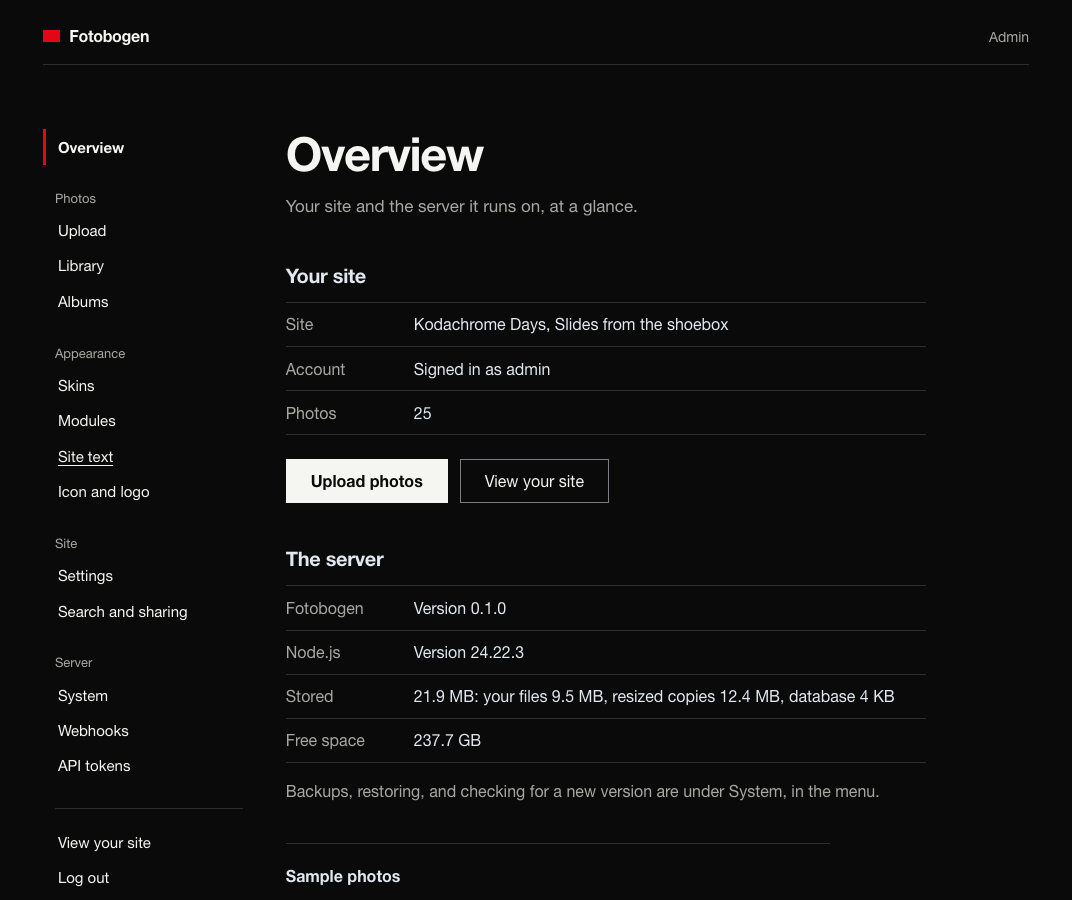
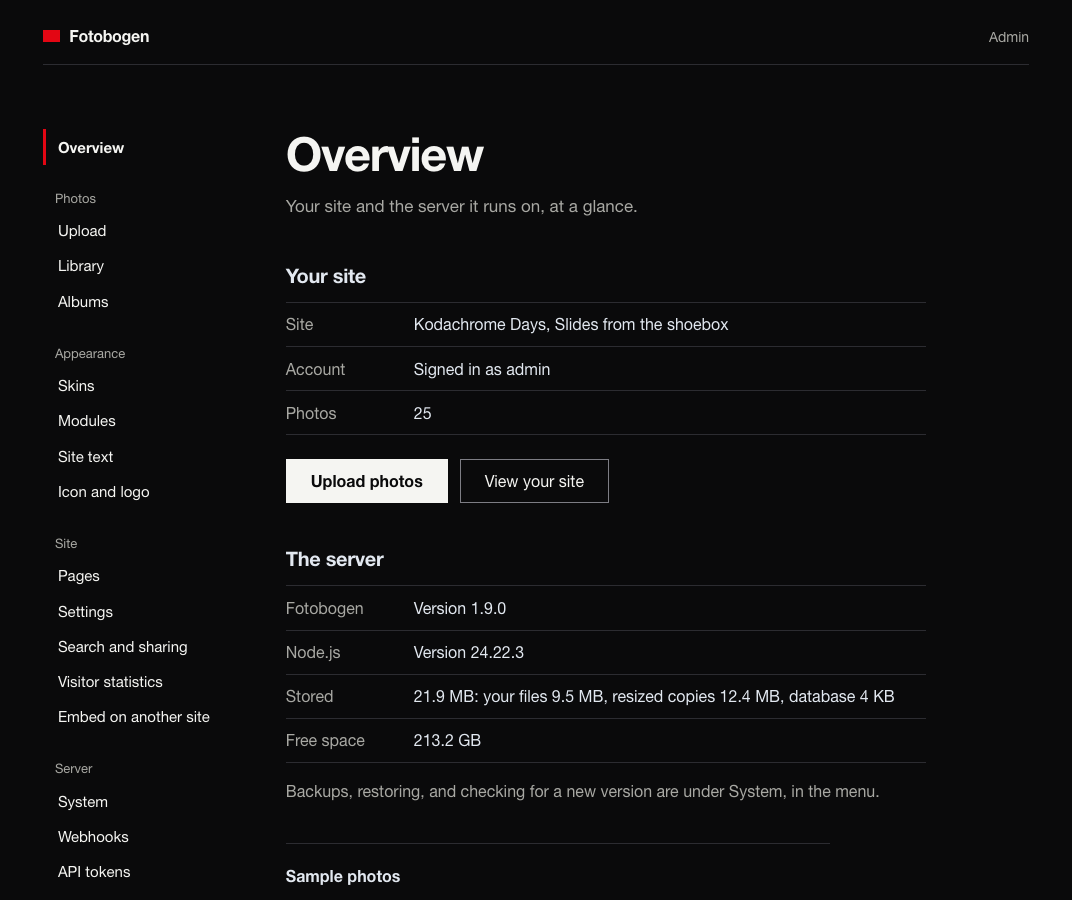
New screenshots of the admin, the grid and a photo page; the skin and module guides' outlines match the markup
The README's and the front page's screenshots of the admin's Overview, the
public grid, and a photo page were from early versions. They are retaken
from version 1.9.0, with their descriptions.

The outlines of the public markup in both skin guides now show the page
wrapper, the Search link, the light and dark switch as it is written, the
footer's note, the album page's slideshow link, and all six slideshow
controls. The guides also say what a linked or oversized skin file does, and
how the watermark draws its text.

diff --git a/site/docs/writing-a-skin/index.html b/site/docs/writing-a-skin/index.html
@@ -219,13 +219,15 @@ cp -R skins/swiss data/skins/harbour</code></pre>
 <h2 id="markup">The HTML you are styling</h2>
 <p>These class names are stable; a skin may rely on them.</p>
 <pre tabindex="0"><code>&lt;html class="fb-public" data-fb-mode="light"&gt;        &lt;!-- or "dark", or "auto" --&gt;
+&lt;div class="fb-site"&gt;                                  &lt;!-- around everything on the page --&gt;
   &lt;a class="fb-skip"&gt;Skip to content&lt;/a&gt;
   &lt;header class="fb-site-header"&gt;
     &lt;p class="fb-site-title"&gt;&lt;a&gt;Site title&lt;/a&gt;&lt;/p&gt;
     &lt;p class="fb-site-tagline"&gt;Tagline&lt;/p&gt;
     &lt;nav class="fb-nav"&gt;
-      &lt;a&gt;Photos&lt;/a&gt;&lt;a&gt;Albums&lt;/a&gt;&lt;a&gt;Slideshow&lt;/a&gt;
-      &lt;button class="fb-mode"&gt;Dark mode&lt;/button&gt;      &lt;!-- the light and dark switch --&gt;
+      &lt;a&gt;Photos&lt;/a&gt;&lt;a&gt;Albums&lt;/a&gt;&lt;a&gt;Slideshow&lt;/a&gt;&lt;a&gt;Search&lt;/a&gt;
+      &lt;!-- The light and dark switch. It holds both wordings; the stylesheet shows the one for the mode in use. --&gt;
+      &lt;button class="fb-mode"&gt;&lt;span class="fb-mode__to-dark"&gt;Dark mode&lt;/span&gt;&lt;span class="fb-mode__to-light"&gt;Light mode&lt;/span&gt;&lt;/button&gt;
     &lt;/nav&gt;
   &lt;/header&gt;
   &lt;main class="fb-main"&gt;
@@ -289,6 +291,7 @@ cp -R skins/swiss data/skins/harbour</code></pre>
     &lt;p class="fb-site-footer__note"&gt;The owner's own line, if they wrote one&lt;/p&gt;
     &lt;a&gt;RSS feed&lt;/a&gt;
   &lt;/footer&gt;
+&lt;/div&gt;
 &lt;/html&gt;</code></pre>
 <p>The words shown here are the defaults; an owner can change any of them, so never rely on a piece of text or its length. A site title may be three letters or forty.</p>
 <p>Newer parts of the site are not in the outline above. A skin should also style them:</p>
@@ -322,11 +325,16 @@ cp -R skins/swiss data/skins/harbour</code></pre>
   &lt;/div&gt;
   &lt;nav class="fb-slideshow__controls"&gt;
     &lt;button class="fb-slideshow__control"&gt;Previous&lt;/button&gt;
+    &lt;button class="fb-slideshow__control" aria-pressed="false"&gt;Pause&lt;/button&gt;   &lt;!-- or Play --&gt;
+    &lt;button class="fb-slideshow__control"&gt;Next&lt;/button&gt;
     &lt;span class="fb-slideshow__count"&gt;3 / 25&lt;/span&gt;
+    &lt;button class="fb-slideshow__control"&gt;Full screen&lt;/button&gt;
     &lt;a class="fb-slideshow__control"&gt;Close&lt;/a&gt;
   &lt;/nav&gt;
+  &lt;!-- With nothing to show, the page holds only this: --&gt;
+  &lt;p class="fb-slideshow__empty"&gt;There are no photos to show. &lt;a&gt;Go back&lt;/a&gt;&lt;/p&gt;
 &lt;/main&gt;</code></pre>
-<p>Two images are stacked; the one with <code>--front</code> is showing, and the skin makes the change between them. Swiss fades <code>opacity</code> over a second, and not at all when the visitor's device asks for reduced motion. Unless you want a different slideshow, leave Swiss's rules for it as they are.</p>
+<p>The words in the outlines are the defaults. Two images are stacked; the one with <code>--front</code> is showing, and the skin makes the change between them. Swiss fades <code>opacity</code> over a second, and not at all when the visitor's device asks for reduced motion. Unless you want a different slideshow, leave Swiss's rules for it as they are.</p>
 
 <h2 id="grid">The grid</h2>
 <p>Both layouts are CSS grid with no JavaScript, so photos are read in the order they appear. If you copied Swiss you already have both; this is what its rules do, in case you change them.</p>
@@ -403,15 +411,15 @@ cp -R skins/swiss data/skins/harbour</code></pre>
   <tbody>
     <tr><td>The folder is called "x" but skin.json names the skin "y". They must match.</td><td>Rename the folder, or change <code>name</code>.</td></tr>
     <tr><td>skin.json must be a JSON object. / Option "x" must be an object.</td><td>Something that should be written in braces, <code>{ … }</code>, is a list, a string, or a number.</td></tr>
-    <tr><td>skin.json needs a "name" of lowercase letters, digits, and hyphens.</td><td>No capitals, spaces, or underscores; start with a letter.</td></tr>
+    <tr><td>skin.json needs a "name" of lowercase letters, digits, and hyphens.</td><td>No capitals, spaces, or underscores; start with a letter; 40 characters at most.</td></tr>
     <tr><td>skin.json needs a "version". / a "label".</td><td>Add the missing field.</td></tr>
-    <tr><td>skin.css is missing or empty.</td><td>The stylesheet must be in the same folder, with that name.</td></tr>
+    <tr><td>skin.css is missing or empty.</td><td>The stylesheet must be in the same folder, with that name. A file that is a link to somewhere else, or larger than 2 MB, is read as empty: put the file itself in the folder, and keep it under that size. The same goes for <code>skin.json</code>.</td></tr>
     <tr><td>skin.json needs "modes" with a "light" and a "dark" set of colours. Every skin can be viewed in both.</td><td>Add <code>modes</code> with both. (A skin written before modes existed used <code>tokens</code>; move those colours under <code>modes</code>.)</td></tr>
     <tr><td>The light and dark modes must name the same colours.</td><td>A name is in one and not the other.</td></tr>
     <tr><td>Colour "x" (light) must be written like "#0a0a0b".</td><td>Six-digit hex only.</td></tr>
     <tr><td>Colour names are lowercase letters, digits, and hyphens.</td><td>Rename the colour.</td></tr>
     <tr><td>Option names are lowercase letters, digits, and hyphens.</td><td>Rename the option.</td></tr>
-    <tr><td>Colour option "x" needs a default like "#e30613", or one for each mode: { "light": …, "dark": … }.</td><td>Give a hex colour, or one for each mode.</td></tr>
+    <tr><td>Colour option "x" needs a default like "#e30613", or one for each mode: { "light": "#e30613", "dark": "#ff5a4f" }.</td><td>Give a hex colour, or one for each mode.</td></tr>
     <tr><td>Select option "x" needs a list of text options and a default that is one of them.</td><td>The default must appear in <code>options</code>.</td></tr>
     <tr><td>Select option "x": "…" cannot be used as a CSS value.</td><td>A value in <code>values</code> has a character that is not allowed, such as <code>;</code> or <code>{</code>.</td></tr>
     <tr><td>Range option "x" needs numeric min, max, and default, with min below max.</td><td>All three as numbers, not text.</td></tr>

diff --git a/docs/site/pages/writing-a-skin.html b/docs/site/pages/writing-a-skin.html
@@ -145,13 +145,15 @@ cp -R skins/swiss data/skins/harbour</code></pre>
 <h2 id="markup">The HTML you are styling</h2>
 <p>These class names are stable; a skin may rely on them.</p>
 <pre><code>&lt;html class="fb-public" data-fb-mode="light"&gt;        &lt;!-- or "dark", or "auto" --&gt;
+&lt;div class="fb-site"&gt;                                  &lt;!-- around everything on the page --&gt;
   &lt;a class="fb-skip"&gt;Skip to content&lt;/a&gt;
   &lt;header class="fb-site-header"&gt;
     &lt;p class="fb-site-title"&gt;&lt;a&gt;Site title&lt;/a&gt;&lt;/p&gt;
     &lt;p class="fb-site-tagline"&gt;Tagline&lt;/p&gt;
     &lt;nav class="fb-nav"&gt;
-      &lt;a&gt;Photos&lt;/a&gt;&lt;a&gt;Albums&lt;/a&gt;&lt;a&gt;Slideshow&lt;/a&gt;
-      &lt;button class="fb-mode"&gt;Dark mode&lt;/button&gt;      &lt;!-- the light and dark switch --&gt;
+      &lt;a&gt;Photos&lt;/a&gt;&lt;a&gt;Albums&lt;/a&gt;&lt;a&gt;Slideshow&lt;/a&gt;&lt;a&gt;Search&lt;/a&gt;
+      &lt;!-- The light and dark switch. It holds both wordings; the stylesheet shows the one for the mode in use. --&gt;
+      &lt;button class="fb-mode"&gt;&lt;span class="fb-mode__to-dark"&gt;Dark mode&lt;/span&gt;&lt;span class="fb-mode__to-light"&gt;Light mode&lt;/span&gt;&lt;/button&gt;
     &lt;/nav&gt;
   &lt;/header&gt;
   &lt;main class="fb-main"&gt;
@@ -215,6 +217,7 @@ cp -R skins/swiss data/skins/harbour</code></pre>
     &lt;p class="fb-site-footer__note"&gt;The owner's own line, if they wrote one&lt;/p&gt;
     &lt;a&gt;RSS feed&lt;/a&gt;
   &lt;/footer&gt;
+&lt;/div&gt;
 &lt;/html&gt;</code></pre>
 <p>The words shown here are the defaults; an owner can change any of them, so never rely on a piece of text or its length. A site title may be three letters or forty.</p>
 <p>Newer parts of the site are not in the outline above. A skin should also style them:</p>
@@ -248,11 +251,16 @@ cp -R skins/swiss data/skins/harbour</code></pre>
   &lt;/div&gt;
   &lt;nav class="fb-slideshow__controls"&gt;
     &lt;button class="fb-slideshow__control"&gt;Previous&lt;/button&gt;
+    &lt;button class="fb-slideshow__control" aria-pressed="false"&gt;Pause&lt;/button&gt;   &lt;!-- or Play --&gt;
+    &lt;button class="fb-slideshow__control"&gt;Next&lt;/button&gt;
     &lt;span class="fb-slideshow__count"&gt;3 / 25&lt;/span&gt;
+    &lt;button class="fb-slideshow__control"&gt;Full screen&lt;/button&gt;
     &lt;a class="fb-slideshow__control"&gt;Close&lt;/a&gt;
   &lt;/nav&gt;
+  &lt;!-- With nothing to show, the page holds only this: --&gt;
+  &lt;p class="fb-slideshow__empty"&gt;There are no photos to show. &lt;a&gt;Go back&lt;/a&gt;&lt;/p&gt;
 &lt;/main&gt;</code></pre>
-<p>Two images are stacked; the one with <code>--front</code> is showing, and the skin makes the change between them. Swiss fades <code>opacity</code> over a second, and not at all when the visitor's device asks for reduced motion. Unless you want a different slideshow, leave Swiss's rules for it as they are.</p>
+<p>The words in the outlines are the defaults. Two images are stacked; the one with <code>--front</code> is showing, and the skin makes the change between them. Swiss fades <code>opacity</code> over a second, and not at all when the visitor's device asks for reduced motion. Unless you want a different slideshow, leave Swiss's rules for it as they are.</p>
 
 <h2 id="grid">The grid</h2>
 <p>Both layouts are CSS grid with no JavaScript, so photos are read in the order they appear. If you copied Swiss you already have both; this is what its rules do, in case you change them.</p>
@@ -329,15 +337,15 @@ cp -R skins/swiss data/skins/harbour</code></pre>
   <tbody>
     <tr><td>The folder is called "x" but skin.json names the skin "y". They must match.</td><td>Rename the folder, or change <code>name</code>.</td></tr>
     <tr><td>skin.json must be a JSON object. / Option "x" must be an object.</td><td>Something that should be written in braces, <code>{ … }</code>, is a list, a string, or a number.</td></tr>
-    <tr><td>skin.json needs a "name" of lowercase letters, digits, and hyphens.</td><td>No capitals, spaces, or underscores; start with a letter.</td></tr>
+    <tr><td>skin.json needs a "name" of lowercase letters, digits, and hyphens.</td><td>No capitals, spaces, or underscores; start with a letter; 40 characters at most.</td></tr>
     <tr><td>skin.json needs a "version". / a "label".</td><td>Add the missing field.</td></tr>
-    <tr><td>skin.css is missing or empty.</td><td>The stylesheet must be in the same folder, with that name.</td></tr>
+    <tr><td>skin.css is missing or empty.</td><td>The stylesheet must be in the same folder, with that name. A file that is a link to somewhere else, or larger than 2 MB, is read as empty: put the file itself in the folder, and keep it under that size. The same goes for <code>skin.json</code>.</td></tr>
     <tr><td>skin.json needs "modes" with a "light" and a "dark" set of colours. Every skin can be viewed in both.</td><td>Add <code>modes</code> with both. (A skin written before modes existed used <code>tokens</code>; move those colours under <code>modes</code>.)</td></tr>
     <tr><td>The light and dark modes must name the same colours.</td><td>A name is in one and not the other.</td></tr>
     <tr><td>Colour "x" (light) must be written like "#0a0a0b".</td><td>Six-digit hex only.</td></tr>
     <tr><td>Colour names are lowercase letters, digits, and hyphens.</td><td>Rename the colour.</td></tr>
     <tr><td>Option names are lowercase letters, digits, and hyphens.</td><td>Rename the option.</td></tr>
-    <tr><td>Colour option "x" needs a default like "#e30613", or one for each mode: { "light": …, "dark": … }.</td><td>Give a hex colour, or one for each mode.</td></tr>
+    <tr><td>Colour option "x" needs a default like "#e30613", or one for each mode: { "light": "#e30613", "dark": "#ff5a4f" }.</td><td>Give a hex colour, or one for each mode.</td></tr>
     <tr><td>Select option "x" needs a list of text options and a default that is one of them.</td><td>The default must appear in <code>options</code>.</td></tr>
     <tr><td>Select option "x": "…" cannot be used as a CSS value.</td><td>A value in <code>values</code> has a character that is not allowed, such as <code>;</code> or <code>{</code>.</td></tr>
     <tr><td>Range option "x" needs numeric min, max, and default, with min below max.</td><td>All three as numbers, not text.</td></tr>

diff --git a/site/index.html b/site/index.html
@@ -239,11 +239,11 @@ footer .wrap{border-top:1px solid var(--rule);padding-top:20px;padding-bottom:28
         </li>
         <li>
           <div class="cap"><span class="num" aria-hidden="true">07</span><h3>Your photographs, published</h3><p>Visitors see a grid that keeps each photo its own shape, or equal squares if you prefer. It is laid out without scripts, loads a blurred placeholder first, and never jumps as pictures arrive.</p><p class="where">The public site</p></div>
-          <figure><img src="screens/gallery.jpg" width="1072" height="760" loading="lazy" decoding="async" alt="A dark page titled Kodachrome Days with a masonry grid of photographs of different shapes: a game controller, a pine forest, a lighthouse, a whitewashed town, a coffee mug."></figure>
+          <figure><img src="screens/gallery.jpg" width="1072" height="760" loading="lazy" decoding="async" alt="A dark page titled Kodachrome Days. Under the menu, a row of album names to choose from: All, Desk and table, Coast and mountains. Below it, a masonry grid of photographs of different shapes: a coffee mug, a lake, a waterfall, a whitewashed town, a desk."></figure>
         </li>
         <li>
           <div class="cap"><span class="num" aria-hidden="true">08</span><h3>One photo, with its words</h3><p>Each photo has its own page and address, with its title, description, date, and camera details, and links to the next and the previous. It can also open over the grid.</p><p class="where">A photo page</p></div>
-          <figure><img src="screens/photo.jpg" width="1072" height="760" loading="lazy" decoding="async" alt="A photo page: a man in a suit crossing an empty road, with the title Crossing and a description beside it, and Previous and Next links."></figure>
+          <figure><img src="screens/photo.jpg" width="1072" height="760" loading="lazy" decoding="async" alt="A photo page: a whitewashed town on a hillside, with the title Whitewashed town, a description, its size in pixels, and Previous and Next links beside it."></figure>
         </li>
         <li>
           <div class="cap"><span class="num" aria-hidden="true">09</span><h3>Film looks and frames</h3><p>Modules change how a photo looks without touching the file you uploaded. Under each photo is a strip of previews: black-and-white, a colour slide, a contact-print frame with made-up film markings. Pick one, adjust it, save. Switching it off puts the photo back.</p><p class="where">Editing a photo</p></div>

diff --git a/site/docs/modules/index.html b/site/docs/modules/index.html
@@ -105,6 +105,7 @@
   <li><strong>Frame thickness.</strong></li>
   <li><strong>Ragged edge</strong>, from a straight cut to a rough one, like the edge of a filed-out negative carrier.</li>
   <li><strong>Film edge markings</strong>, on or off: the stock name and frame numbers printed along the border. The names are made up (FOTOBOGEN 400, NACHTPAN 100, SILBERKORN 5063, BOGEN-X 320).</li>
+  <li><strong>Film stock (made up)</strong>: which of those names is printed.</li>
   <li><strong>Sprocket holes</strong>, on or off, as on 35 mm film.</li>
   <li><strong>Sharpening</strong> of the photo inside the frame.</li>
 </ul>
@@ -112,6 +113,7 @@
 
 <h2 id="watermark">Watermark</h2>
 <p>Prints a line of text, such as your name, on each photo: in a corner or the centre, at a size and opacity you choose, light or dark. It marks the copies visitors see, and the copy they download, except when <strong>show where photos were taken</strong> is on in Settings: the download is then the file exactly as you uploaded it, unmarked. It is a deterrent, not protection: a mark in a corner can be cropped off.</p>
+<p>The text is drawn in dots, like the printing on the edge of film, so no font has to be installed on the server. That limits it to capital letters, digits, and a few marks: small letters are printed as capitals, anything else is left as a space, and <code>(C)</code> stands in for the copyright sign.</p>
 
 <h2 id="sharpening">Sharpening</h2>
 <p>Each module has a sharpening slider, from 0 to 100.</p>

diff --git a/docs/site/pages/modules.html b/docs/site/pages/modules.html
@@ -36,6 +36,7 @@
   <li><strong>Frame thickness.</strong></li>
   <li><strong>Ragged edge</strong>, from a straight cut to a rough one, like the edge of a filed-out negative carrier.</li>
   <li><strong>Film edge markings</strong>, on or off: the stock name and frame numbers printed along the border. The names are made up (FOTOBOGEN 400, NACHTPAN 100, SILBERKORN 5063, BOGEN-X 320).</li>
+  <li><strong>Film stock (made up)</strong>: which of those names is printed.</li>
   <li><strong>Sprocket holes</strong>, on or off, as on 35 mm film.</li>
   <li><strong>Sharpening</strong> of the photo inside the frame.</li>
 </ul>
@@ -43,6 +44,7 @@
 
 <h2 id="watermark">Watermark</h2>
 <p>Prints a line of text, such as your name, on each photo: in a corner or the centre, at a size and opacity you choose, light or dark. It marks the copies visitors see, and the copy they download, except when <strong>show where photos were taken</strong> is on in Settings: the download is then the file exactly as you uploaded it, unmarked. It is a deterrent, not protection: a mark in a corner can be cropped off.</p>
+<p>The text is drawn in dots, like the printing on the edge of film, so no font has to be installed on the server. That limits it to capital letters, digits, and a few marks: small letters are printed as capitals, anything else is left as a space, and <code>(C)</code> stands in for the copyright sign.</p>
 
 <h2 id="sharpening">Sharpening</h2>
 <p>Each module has a sharpening slider, from 0 to 100.</p>

diff --git a/site/docs/skins/index.html b/site/docs/skins/index.html
@@ -153,7 +153,7 @@
   <li>In <code>skin.css</code>, never write a colour for the page. Use the names instead, and both modes work:
 <pre tabindex="0"><code>.fb-public body { background: var(--fb-ground); color: var(--fb-text); }
 .fb-site-header { border-bottom: 4px solid var(--fb-text); }</code></pre></li>
-  <li>Add your own rules at the end. Plakat's headline is two lines:
+  <li>Add your own rules at the end. Plakat's headline is two lines (shortened here):
 <pre tabindex="0"><code>.fb-site-title { font-size: clamp(2.75rem, 11vw, 8.5rem); line-height: 0.88; overflow-wrap: anywhere; }
 .fb-site-title::after { content: ""; display: block; width: 7rem; height: 0.7rem; background: var(--fb-accent); }</code></pre></li>
   <li>To give it a look for every photo, add <code>look</code> to <code>skin.json</code>:

diff --git a/docs/site/pages/skins.html b/docs/site/pages/skins.html
@@ -85,7 +85,7 @@
   <li>In <code>skin.css</code>, never write a colour for the page. Use the names instead, and both modes work:
 <pre><code>.fb-public body { background: var(--fb-ground); color: var(--fb-text); }
 .fb-site-header { border-bottom: 4px solid var(--fb-text); }</code></pre></li>
-  <li>Add your own rules at the end. Plakat's headline is two lines:
+  <li>Add your own rules at the end. Plakat's headline is two lines (shortened here):
 <pre><code>.fb-site-title { font-size: clamp(2.75rem, 11vw, 8.5rem); line-height: 0.88; overflow-wrap: anywhere; }
 .fb-site-title::after { content: ""; display: block; width: 7rem; height: 0.7rem; background: var(--fb-accent); }</code></pre></li>
   <li>To give it a look for every photo, add <code>look</code> to <code>skin.json</code>:

diff --git a/docs/SKINS.md b/docs/SKINS.md
@@ -232,13 +232,18 @@ A `color` default may also be a single colour, used in both modes. A `select` sh
 These class names are stable. A skin may rely on them.
 
 ```html
-<html class="fb-public">
+<html class="fb-public" data-fb-mode="light">   <!-- or "dark", or "auto" -->
+<div class="fb-site">                            <!-- around everything on the page -->
   <a class="fb-skip">Skip to content</a>
   <header class="fb-site-header">
     <p class="fb-site-title"><a>Site title</a></p>
     <p class="fb-site-tagline">Tagline</p>
     <!-- After Slideshow come the owner's pages and links, as many as they add: let the menu wrap. -->
-    <nav class="fb-nav"><a>Photos</a><a>Albums</a><a>Slideshow</a><a>Search</a><a>About</a></nav>
+    <nav class="fb-nav">
+      <a>Photos</a><a>Albums</a><a>Slideshow</a><a>Search</a><a>About</a>
+      <!-- The light and dark switch. It holds both wordings; the stylesheet shows the one for the mode in use. -->
+      <button class="fb-mode"><span class="fb-mode__to-dark">Dark mode</span><span class="fb-mode__to-light">Light mode</span></button>
+    </nav>
   </header>
   <main class="fb-main">
 
@@ -273,6 +278,7 @@ These class names are stable. A skin may rely on them.
     <!-- An album or tag page: a heading, then the same grid -->
     <h1 class="fb-page-title">Album name</h1>
     <p class="fb-page-description">Description</p>
+    <p class="fb-page-actions"><a>Play as a slideshow</a></p>
 
     <!-- Over the grid on the front page, when the owner offers albums there: a row of names.
          The one being shown carries aria-current="page". -->
@@ -318,7 +324,11 @@ These class names are stable. A skin may rely on them.
     </dialog>
 
   </main>
-  <footer class="fb-site-footer"><a>RSS feed</a></footer>
+  <footer class="fb-site-footer">
+    <p class="fb-site-footer__note">The owner's own line, if they wrote one</p>
+    <a>RSS feed</a>
+  </footer>
+</div>
 </html>
 ```
 
@@ -354,9 +364,14 @@ You do not need to do anything: Fotobogen's own rules, added after your styleshe
   </div>
   <nav class="fb-slideshow__controls">
     <button class="fb-slideshow__control">Previous</button>
+    <button class="fb-slideshow__control" aria-pressed="false">Pause</button>   <!-- or Play -->
+    <button class="fb-slideshow__control">Next</button>
     <span class="fb-slideshow__count">3 / 25</span>
+    <button class="fb-slideshow__control">Full screen</button>
     <a class="fb-slideshow__control">Close</a>
   </nav>
+  <!-- With nothing to show, the page holds only this: -->
+  <p class="fb-slideshow__empty">There are no photos to show. <a>Go back</a></p>
 </main>
 ```
 

diff --git a/README.md b/README.md
@@ -79,17 +79,17 @@ free software with no warranty: keep backups of your photographs.
 
 ## Screenshots
 
-Taken from a local install of an earlier version: the admin's menu has
-since gained Pages, Visitor statistics, Embed on another site, and Two-step
-login, and the version shown is not the current one. The
+Taken from a local install. The grid, the photo page, and the admin's
+Overview are from version 1.9.0; the others are from earlier versions and
+differ in small ways, such as a shorter menu. The
 photographs are the sample photos Fotobogen can download (Unsplash
 photographs, via Lorem Picsum).
 
 What visitors see: the grid, and a photo on its own page.
 
-![The public site: a dark page with a masonry grid of photographs of different shapes](docs/screenshots/gallery.jpg)
+![The public site: a dark page with a row of album names to choose from, above a masonry grid of photographs of different shapes](docs/screenshots/gallery.jpg)
 
-![A photo page: the photograph with its title and description beside it, and Previous and Next links](docs/screenshots/photo.jpg)
+![A photo page: the photograph with its title, description, and size beside it, and Previous and Next links](docs/screenshots/photo.jpg)
 
 Editing a photo, with the strip of look previews under it and a film frame
 chosen:
